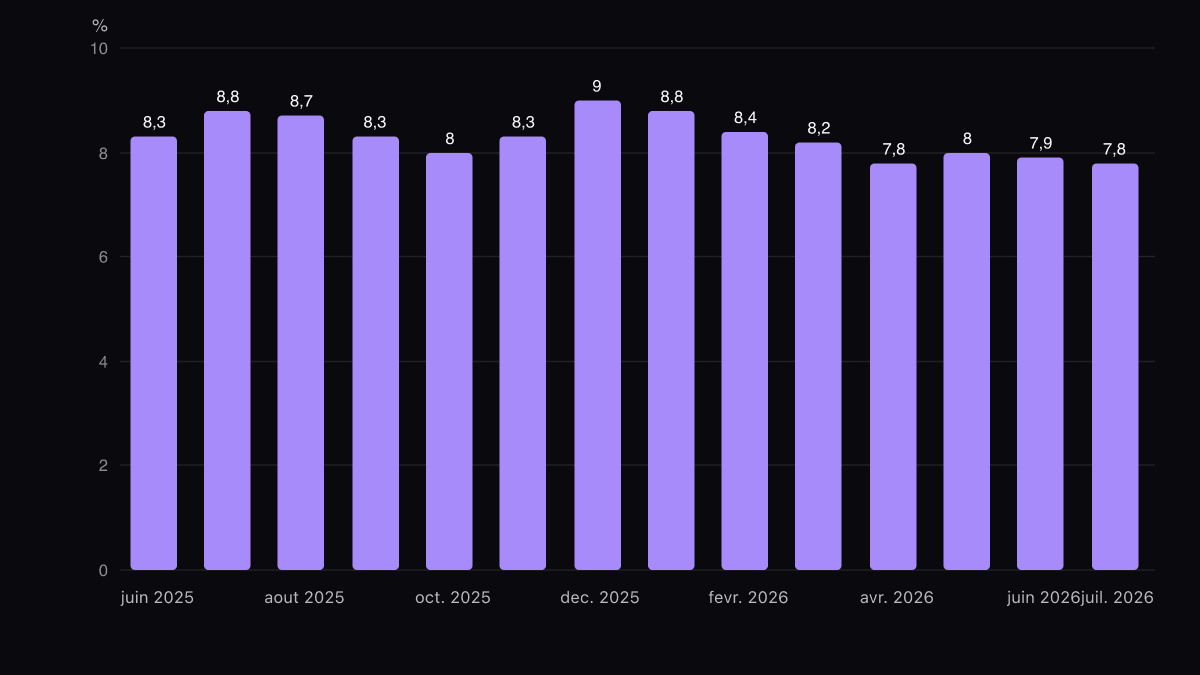
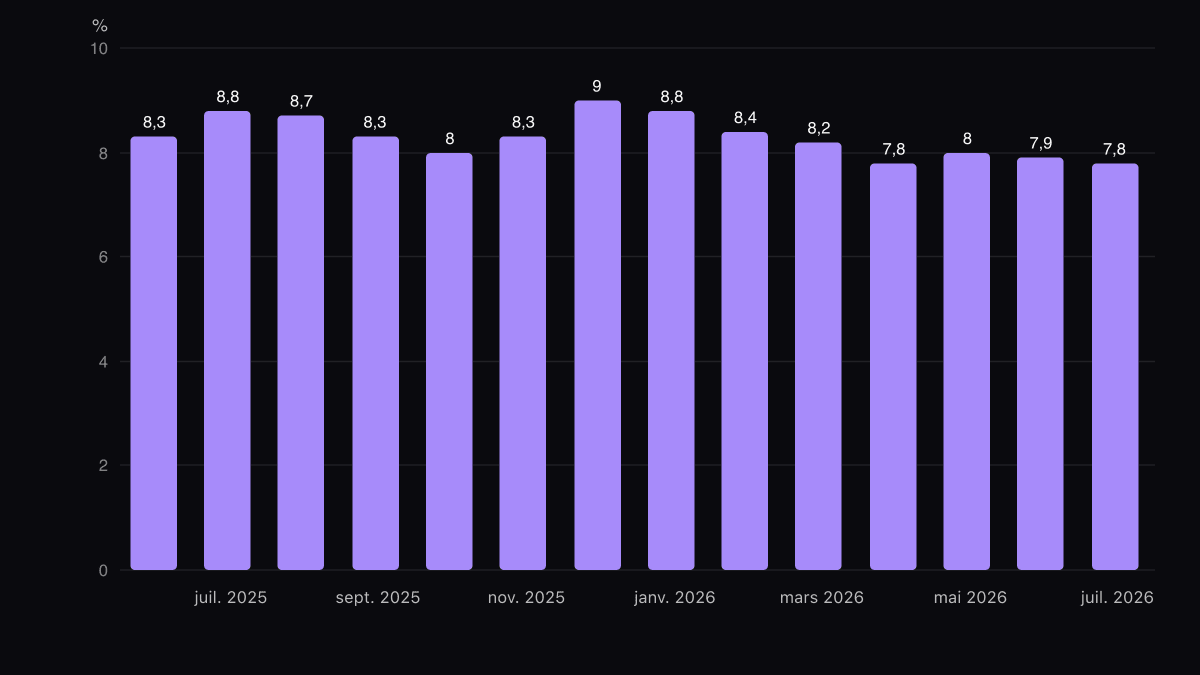
KPI d industrie ajoutes (O, AAPL, TTE.PA, MC.PA : 10 series verifiees aux sources) ; audience Netflix regeneree sans libelles colles ; TTM aligne dans les exports

Changed region(s): [[0.0925, 0.8711, 0.8942, 0.9022]]

diff --git a/src/lib/chart-export.ts b/src/lib/chart-export.ts
@@ -556,7 +556,7 @@ export async function downloadSvgAsPng(
       // premier repere de lecture du PNG. La langue, la periode et tous les
       // reglages du graphe au moment du telechargement restent inchanges.
       const estAnnee =
-        isXAxisLabel && /^(19|20)\d{2}$/.test((t.textContent || "").trim());
+        isXAxisLabel && /^((19|20)\d{2}|TTM)$/.test((t.textContent || "").trim()); // 29 sept 2026 : TTM aligne sur les annees
       if (estAnnee) {
         // Yann 29 aout 2026 : meme taille finale que les graduations de
         // l axe Y (16 px avant agrandissement), quel que soit le corps de

diff --git a/scripts/finding-svg.py b/scripts/finding-svg.py
@@ -314,8 +314,13 @@ def construit(spec: dict, theme: str) -> str:
                         f'transform="rotate(-90 {x_lab:.0f} {y_lab:.0f})">{echappe(etiquette)}</text>'
                     )
         # Beaucoup de periodes : une etiquette sur n, sinon elles se chevauchent.
-        pas = max(1, -(-len(cats) // 12))
-        if i % pas == 0 or i == len(cats) - 1:
+        # 29 sept 2026 (NFLX « juin 2026juil. 2026 ») : le pas tient compte de
+        # la largeur reelle des libelles, et se cale sur le DERNIER libelle
+        # (toujours visible) au lieu de le forcer a cote de son voisin.
+        ecart_cat = (W - MARGE_G - MARGE_D) / max(1, len(cats))
+        plus_large = max(largeur_texte(str(x), 11) for x in cats)
+        pas = max(1, -(-len(cats) // 12), int(-(-(plus_large + 8) // ecart_cat)))
+        if (len(cats) - 1 - i) % pas == 0:
             out.append(f'<text x="{centre:.0f}" y="{BAS + 22}" text-anchor="middle" fill="{c["axe"]}" font-size="11">{echappe(cat)}</text>')
 
     if spec.get("legende", True) and n > 1:
